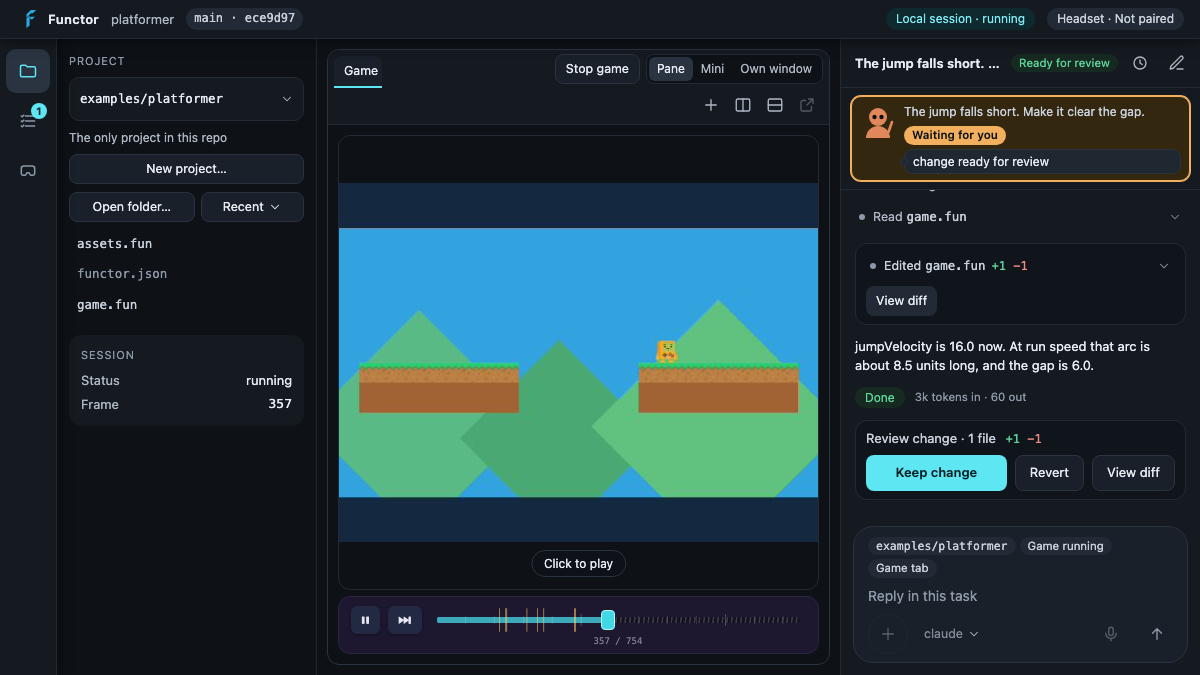
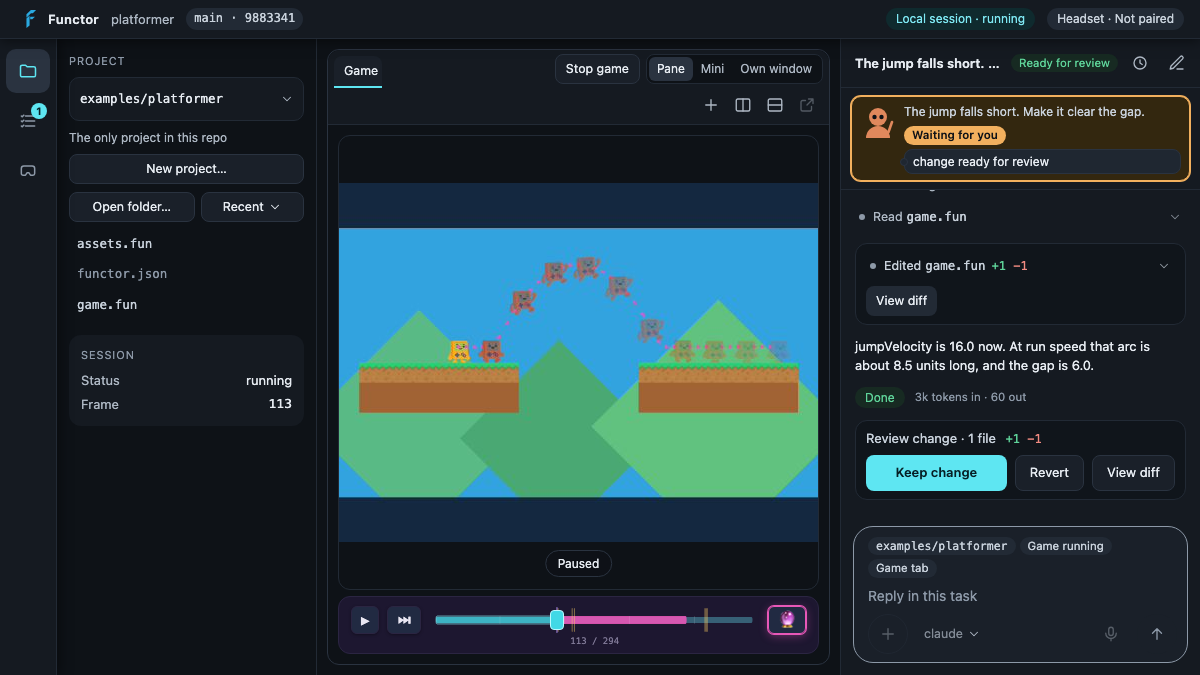
feat(site): app-loop capture shows the predicted path change (D38) (#1061)
Task 1.20, part 2 (stacked on #1059): the landing page's app-loop
capture re-recorded with Extrapolate, so it shows the agent's edit
landing while paused and the predicted path changing before the replay.
The path is the runtime's own drawing in the streamed frame; the script
draws nothing over the page.

**After**

![after](https://gist.githubusercontent.com/tommy-xr/643725b39be688225258c077837e3e68/raw/app-loop-after.gif?v=3)

<sub>`npm run demo:app-loop`: the weak jump falls in → paused and
dragged back to before the run → 🔮 on: the path falls into the gap →
request typed → the run edits `jumpVelocity` and the paused game
reloads: the path now clears the gap → 🔮 off, Play: the jump clears it →
Keep change.</sub>

**Before** (main)

![before](https://gist.githubusercontent.com/tommy-xr/643725b39be688225258c077837e3e68/raw/app-loop-before.gif)

**Landing section** (reduced motion, so the still shows)

| | Before | After |
| --- | --- | --- |
| 1280 |
![](https://gist.githubusercontent.com/tommy-xr/643725b39be688225258c077837e3e68/raw/landing-before-desktop.png)
|
![](https://gist.githubusercontent.com/tommy-xr/643725b39be688225258c077837e3e68/raw/landing-after-desktop.png?v=3)
|
| 390 |
![](https://gist.githubusercontent.com/tommy-xr/643725b39be688225258c077837e3e68/raw/landing-before-mobile.png)
|
![](https://gist.githubusercontent.com/tommy-xr/643725b39be688225258c077837e3e68/raw/landing-after-mobile.png?v=3)
|
[…]

diff --git a/site/index.html b/site/index.html
@@ -115,7 +115,7 @@
       <div class="feature-media loop-media">
         <picture>
           <source media="(prefers-reduced-motion: reduce)" srcset="media/app-loop.png" />
-          <img src="media/app-loop.gif" alt="The desktop app on the platformer: the hero's jump falls into the gap, a request is typed, the agent edits jumpVelocity in game.fun, the game reloads, the timeline is dragged back, the jump clears the gap, and the change is kept" loading="lazy" />
+          <img src="media/app-loop.gif" alt="The desktop app on the platformer: the hero's jump falls into the gap, the game is paused and dragged back to before the run, and its predicted path falls into the gap; a request is typed, the agent edits jumpVelocity in game.fun, the paused game reloads and the predicted path now clears the gap; played again, the jump clears it, and the change is kept" loading="lazy" />
         </picture>
       </div>
 
@@ -138,7 +138,7 @@
           <h3>The game reloads</h3>
           <p>
             The running game picks up the new code in place. No rebuild, no restart, and your
-            state survives.
+            state survives. Paused, it draws where the game goes next under the new code.
           </p>
         </li>
         <li>
